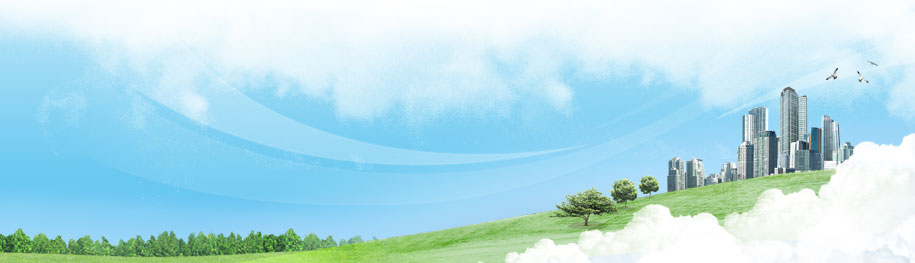
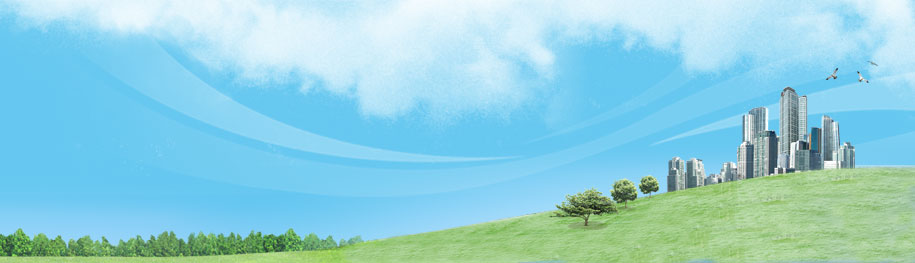
head pp images

diff --git a/app/javascript/app.vue b/app/javascript/app.vue
@@ -2,22 +2,25 @@
   <div>
     <v-app>
       <v-app-bar  app dense flat hide-on-scroll rounded class=" py-0 " color="transparent">
-        <v-container class="d-flex navigation px-0">
+        <v-container class="d-flex navigation ">
           <div class="my-0 d-flex justify-start" >
             <v-icon  @click="drawer = true" class="d-sm-none">
               {{mdiMenu}}
             </v-icon>
           </div>
           <v-spacer></v-spacer>
-          <div 
-            class="justify-end align-center menu mx-0 px-0 d-none d-sm-block"
-            v-for="(item, index) in parts">
-            <v-btn
-              x-small text
-              color="primary">
-              {{item}}
-            </v-btn> 
-          </div>  
+          <v-card outlined class="menu d-flex mr-2">
+            <div 
+              class="justify-end align-center mx-0 px-0 d-none d-sm-block"
+              v-for="(item, index) in parts">
+              <v-btn
+                x-small text
+                color="primary">
+                {{item}}
+              </v-btn> 
+            </div>             
+          </v-card>
+ 
           <v-btn
             small 
             color="primary">
@@ -45,12 +48,12 @@
       </v-navigation-drawer>
 
       <v-main >
-        <v-container class="main">
-<!--         <div class="head d-flex">
-          <div class="head1">1</div>
-          <div class="head2">2</div>
-          <div class="head3 justify-end">3</div>
-        </div> -->
+        <v-container class="main px-0 py-0">
+        <div class="head d-flex">
+          <div class="head1 d-none d-md-block"></div>
+          <div class="head2 d-none d-md-block"></div>
+          <div class="head3 d-flex justify-end align-end"><div class="frontclouds">  </div></div>
+        </div>
         </v-container>
       </v-main>  
     </v-app>    
@@ -73,8 +76,14 @@ export default {
 </script>
 
 <style scoped>
+.frontclouds{
+   width: 416px;   
+   height: 137px;
+   background-image: url('./images/frontclouds.png');
+}
 .main{
-  background-color: #dad;
+  background-repeat: repeat-x;
+  background-image: url('./images/head2.jpg');
 }
 .head1{
   height: 263px;
@@ -83,23 +92,23 @@ export default {
 }
 .head2{
   height: 263px;
- 
- background-repeat: repeat-x;
-  background-image: url('./images/head2.jpg');
 }
 .head3{
+  margin-left: auto;
+  margin-right: 0px;
+  float: right;
   height: 263px;
   width: 915px;
   background-image: url('./images/head3.jpg');
+  background-position: right;
 }
 .head{
   margin-top: -48px;
- 
   /*background-color: #dad;*/
   height: 263px;
- 
 }
 .menu{
+  /*border: 1px #999  solid; */
   border-radius:4px;
   background-color: #fff;
 }

diff --git a/app/javascript/stylesheets/scss/_variables.scss b/app/javascript/stylesheets/scss/_variables.scss
@@ -60,13 +60,14 @@ $material-dark: (
 // $heading-font-family: 'Roboto';
 $font-size-root: 1em ;
 $container-max-widths: (
-    'md': 960px,
- 
+
+    'md': 1220px,
+ 'lg': 1280px,
 );
 $grid-breakpoints:  (
     'xs': 0,
     'sm': 756px,
-    'md': 960px,
+    'md': 1020px,
     'lg': 1280px - 16px,
     'xl': 1480px - 16px,
 );

diff --git a/app/javascript/packs/main.js b/app/javascript/packs/main.js
@@ -3,6 +3,7 @@ import App from '../app.vue'
 // import 'vuetify/dist/vuetify.min.css'
 Vue.use(Vuetify, {
   components: {
+    VCard,
     VToolbar,
     VApp,
     VAppBar,
@@ -21,6 +22,7 @@ Vue.use(Vuetify, {
   }
 }) 
 import Vuetify, {
+  VCard,
   VToolbar,
   VApp,
   VAppBar,
